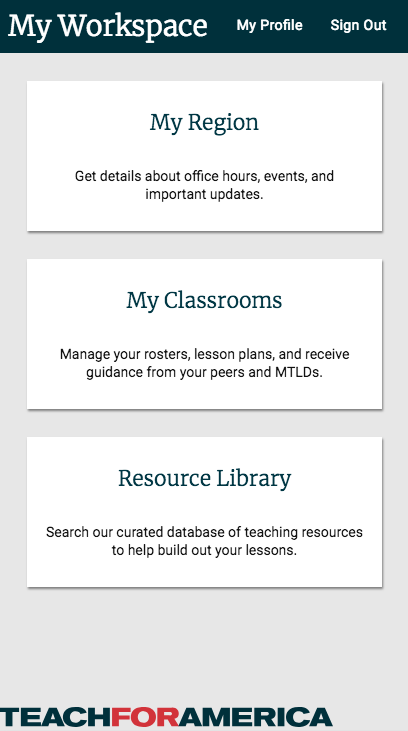
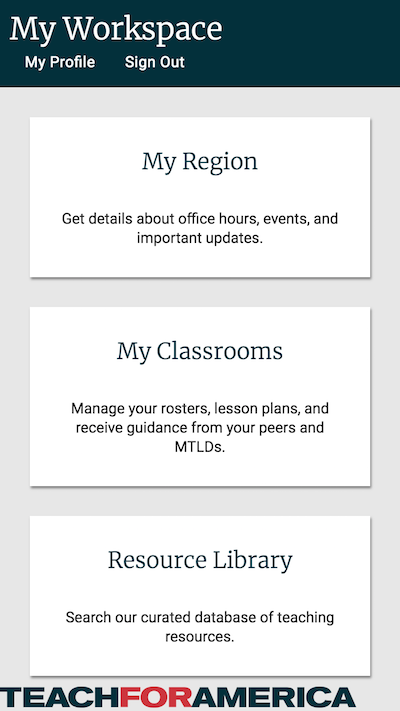
Removed empty heading, updated mockups, general layout fixes.

diff --git a/instructions/index.html b/instructions/index.html
@@ -2,6 +2,7 @@
 <html lang="en">
 <head>
     <meta charset="UTF-8">
+    <meta name="viewport" content="width=device-width, initial-scale=1.0">
     <title>TFA Front End Developer Test</title>
     <style>
         html{
@@ -12,6 +13,7 @@
         }
         body{
             margin: auto;
+            padding: 0 1.33em;
             max-width: 58em;
             line-height: 1.25;
             background-color: #f2f2f2;
@@ -33,9 +35,11 @@
             overflow: visible;
             background-color: black;
             padding: 3em;
+            text-align: center;
         }
 
         .image-section img{
+            display: inline-block;
             max-width: 100%;
             -webkit-box-sizing: border-box;
             -moz-box-sizing: border-box;
@@ -118,7 +122,5 @@
             This portion of the test should not require any JavaScript.
         </li>
     </ul>
-
-    <h2></h2>
 </body>
 </html>
